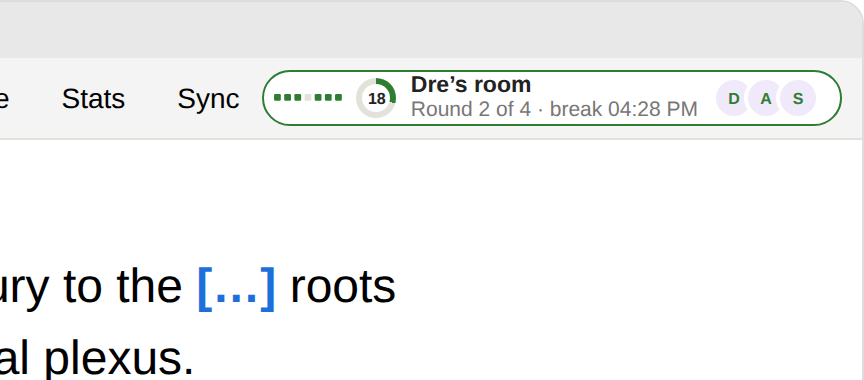
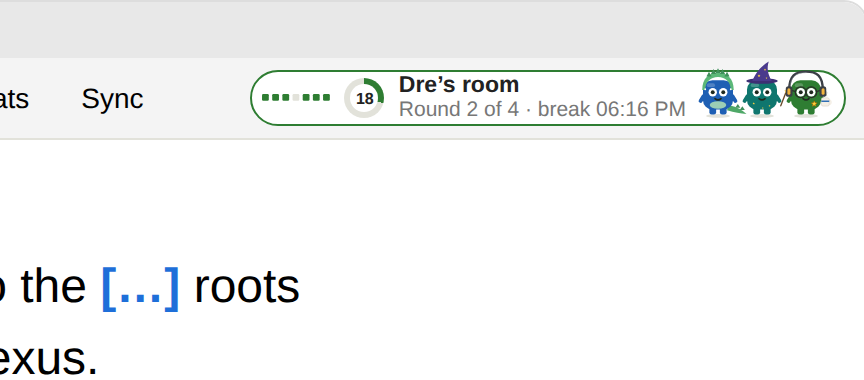
Pips in the study room's chip, margin card and break
Sam, on the top bar's room chip: "no pips here either!". Every room
widget that drew initials now draws each person's Pip, in their colour
and look, as the room's card and the Decks lobby already did. One helper
(people in the widget runtime) draws them at the size of the face each
replaces: the chip shows four, then +N, so it never crowds the bar; the
margin card and the break show everyone, wrapping, with room above for
a hat. The gap between Pips grows with their size so a held mug clears
the next one. Pip off, the initials as before.

A node test runs the real widgets on a small fake page (chip, margin
card, break, card; Pip on and off; a fifteen). README's room picture
is re-rendered from the widget.

Claude-Session: https://claude.ai/code/session_01T9RYS9itCJ3KTL7nGa5aCe

diff --git a/tests/test_due_crew.py b/tests/test_due_crew.py
@@ -12393,7 +12393,8 @@ def test_crew_room_sevs_wear_their_accents_v381():
           and sev.BLINK == 4.6 and len({sev.started(i) for i in range(6)}) == 6)
     js = rm.widget_js("card", on)
     check("…drawn from sev.py's markup (24 px seats, the faces' size), coloured by day or night, the name only a label set as text",
-          "seats(40) : faces(c, 24)" in js and "n ? s.a[1] : s.a[0]" in js and "w.title = s.n;" in js
+          "who.appendChild(people(c, 24));" in js and "Math.round(size / (D.slot || [0.6])[0]), f = seats(s, most)" in js
+          and "n ? s.a[1] : s.a[0]" in js and "w.title = s.n;" in js
           and "v.setAttribute('aria-label', s.n)" in js and round(40 * sev.SLOT[0]) == 24)
     off = rm.widget_data(room, ents, mine, sev=False)
     fif = rm.widget_data(rm.make_fifteen("sam", datetime.datetime.now(utc)), ents, mine)
@@ -13177,6 +13178,89 @@ def test_squad_pips_v3821():
           and 'squadPip(r, pips) || (r.emoji ? r.emoji + " " : ""), r.name)' in app_js
           and "pip: (x) => squadPip(x, pips)" in app_js and "new Map(people.map((p) => [p.uid, p]))" in app_js
           and "pipOf(f) || face(f.emoji, f.name)" in builder_js and "[pipOf(x) || (x.emoji" in builder_js)
+
+
+def test_room_widget_pips_v3821():
+    """3.8.21 (Sam: "no pips here either!"): a crew room's people are their
+    Pips in every widget that showed their initials: the top bar's chip (four,
+    then +N), the margin card and the break (a crowd wraps, hats clear the line
+    above), as on the room's card. Pip off: the initials, as before. The
+    widgets run in node on a small fake page; skipped without node."""
+    import shutil
+    import subprocess
+    from due_crew import room_model as rm, sev
+    utc = datetime.timezone.utc
+    now = datetime.datetime.now(utc)
+    js_of = lambda kind: rm.widget_js(kind, rm.widget_data(rm.make_room("sam", now), [], ("#2e7d32", "#7cc47f")))
+    check("every crew room widget draws its people one way (Pips, or the initials with Pip off), at the faces' size",
+          "fc = people(c, 18, 4);" in js_of("chip") and "root.appendChild(people(c, 26, 0, true));" in js_of("gutter")
+          and "box.appendChild(people(c, 32, 0, true));" in js_of("break") and "who.appendChild(people(c, 24));" in js_of("card")
+          and "faces(c, " not in rm._RUNTIME.replace("return faces(c, size);", "").replace("function faces(c, size)", ""))
+    node = shutil.which("node")
+    if not node:
+        print("SKIP room widget Pips: no node")
+        return
+    names = [("sam", "Sammy", True), ("lu", "Lu <b>", False), ("dre", "Dre", False),
+             ("ana", "Ana", False), ("kai", "Kai", False), ("nia", "Nia", False)]
+
+    def ents(room, n):
+        return [{"user_id": u, "name": nm, "you": y, "accent": "blue", "look": ["cap"] if u == "lu" else [], "room": room}
+                for u, nm, y in names[:n]]
+    before = rm.make_room("sam", now + datetime.timedelta(minutes=20))
+    fif = rm.make_fifteen("sam", now - datetime.timedelta(minutes=3))
+    cases = [(kind, n, pip, before) for kind in ("chip", "gutter", "break", "card") for n, pip in ((2, True), (6, True), (2, False))]
+    cases.append(("chip", 1, True, fif))
+    progs = [rm.widget_js(kind, rm.widget_data(room, ents(room, n), board.accent_pair("green"), sev=pip))
+             for kind, n, pip, room in cases]
+    dom = r"""
+class Sty { constructor() { this.cssText = ''; } setProperty(k, v) { this[k] = v; } }
+class E {
+  constructor(tag) { this.tag = tag; this.kids = []; this.style = new Sty(); this.textContent = ''; this.title = ''; }
+  appendChild(k) { this.kids.push(k); k.parentNode = this; return k; }
+  set innerHTML(h) { this.html = h; this.kids = []; const m = /^<([a-z]+)/.exec(h); if (m) { this.kids.push(new E(m[1])); } }
+  get firstChild() { return this.kids[0] || null; }
+  setAttribute(k, v) { this[k] = v; } querySelectorAll() { return []; } addEventListener() {} remove() {}
+}
+const body = new E('body'); body.className = '';
+globalThis.window = globalThis; window.addEventListener = () => {};
+globalThis.document = { body, head: new E('head'), createElement: (t) => new E(t), getElementById: () => null,
+  querySelector: () => null, documentElement: { classList: { contains: () => false } } };
+globalThis.setInterval = () => 0; globalThis.pycmd = () => {};
+const walk = (e, out) => { out.push(e); e.kids.forEach((k) => walk(k, out)); return out; };
+"""
+    out = []
+    for prog in progs:
+        run = subprocess.run([node, "-e", dom + prog + r"""
+const all = walk(body, []);
+const pips = all.filter((e) => e.style['--sv-d'] !== undefined);
+console.log(JSON.stringify({
+  pips: pips.map((e) => e.title), slot: pips.length ? /width:(\d+)px/.exec(pips[0].style.cssText)[1] : null,
+  initials: all.filter((e) => e.tag === 'i' && /border-radius:50%/.test(e.style.cssText)).map((e) => e.textContent),
+  more: all.filter((e) => e.tag === 'small' && /^\+/.test(e.textContent)).map((e) => e.textContent),
+  row: pips.length ? pips[0].parentNode.style.cssText : '' }));"""], capture_output=True, text=True, timeout=60)
+        try:
+            out.append(json.loads(run.stdout))
+        except ValueError:
+            out.append({"error": run.stdout[-300:] + run.stderr[-1500:]})
+    got = {(kind, n, pip, room is fif): o for (kind, n, pip, room), o in zip(cases, out)}
+    check("the widgets run in node", all("error" not in o for o in out), [o for o in out if "error" in o])
+    six = ["You", "Ana", "Dre", "Kai", "Lu <b>", "Nia"]
+    check("chip, Pip on: each person is their Pip, host first, a name only a label; four, then +2",
+          got[("chip", 2, True, False)]["pips"] == ["You", "Lu <b>"] and got[("chip", 2, True, False)]["more"] == []
+          and got[("chip", 6, True, False)]["pips"] == six[:4] and got[("chip", 6, True, False)]["more"] == ["+2"]
+          and got[("chip", 2, True, False)]["initials"] == [], got)
+    check("…each Pip's slot is the face it replaces (chip 18, margin card 26, break 32, room card 24)",
+          [got[(k, 2, True, False)]["slot"] for k in ("chip", "gutter", "break", "card")] == ["18", "26", "32", "24"]
+          and all(round(round(f / sev.SLOT[0]) * sev.SLOT[0]) == f for f in (18, 26, 32, 24)), got)
+    check("margin card and break: everyone (no +N), wrapping, with room above for a hat",
+          all(got[(k, 6, True, False)]["pips"] == six and got[(k, 6, True, False)]["more"] == []
+              and "flex-wrap:wrap" in got[(k, 6, True, False)]["row"] and "padding-top:" in got[(k, 6, True, False)]["row"]
+              for k in ("gutter", "break")), got)
+    check("Pip off: the initials, as before, in every widget",
+          all(got[(k, 2, False, False)]["pips"] == [] and got[(k, 2, False, False)]["initials"] == ["S", "L"]
+              for k in ("chip", "gutter", "break", "card")), got)
+    check("a fifteen's chip: its own Pip, no people", got[("chip", 1, True, True)]["pips"] == []
+          and got[("chip", 1, True, True)]["initials"] == [], got)
 
 
 def test_closet_flow_v382():

diff --git a/due_crew/room_model.py b/due_crew/room_model.py
@@ -602,9 +602,11 @@ _RUNTIME = r"""
   // 3.8.1: a crew room's members as their Pips (room_model.seats): each in its
   // person's accent (by day or night, as mine), each blinking at its own moment;
   // a name is only ever a label, set as text
-  function seats(size) {
-    var f = el('span', 'display:inline-flex;align-items:center;gap:3px;'), n = night();
-    D.seats.forEach(function (s) {
+  // most: that many, then +N (3.8.21, the top bar's chip)
+  function seats(size, most) {
+    var f = el('span', 'display:inline-flex;align-items:center;gap:' + Math.max(3, Math.round(size / 8)) + 'px;'), n = night();
+    D.seats.forEach(function (s, i) {
+      if (most && i >= most) { return; }
       var w = sev(s.k && D.sev[s.k] ? s.k : s.m && s.m !== 'idle' && D.sev['idle.' + s.m] ? 'idle.' + s.m : 'idle', size), v = w.firstChild;
       w.style.setProperty('--sv-a', n ? s.a[1] : s.a[0]);
       w.style.setProperty('--sv-d', s.d + 's');
@@ -612,6 +614,20 @@ _RUNTIME = r"""
       if (v && v.setAttribute) { v.setAttribute('aria-label', s.n); }
       f.appendChild(w);
     });
+    if (most && D.seats.length > most) { f.appendChild(el('small', 'color:' + c.mut + ';font-size:11px;', '+' + (D.seats.length - most))); }
+    return f;
+  }
+  // 3.8.21 (Sam: "no pips here either!"): with Pip on, a crew room's people are their Pips
+  // wherever its faces were (the chip, the gutter, the break, the card); Pip off, the initials.
+  // A face of size px is a seat of size / sev.SLOT[0]: the slot its Pip fills is the face's size
+  // In a column (stack), their hats clear the line above and a crowd wraps
+  function people(c, size, most, stack) {
+    if (!(D.sev && D.seats && D.seats.length)) { return faces(c, size); }
+    var s = Math.round(size / (D.slot || [0.6])[0]), f = seats(s, most);
+    if (stack) {
+      f.style.cssText += 'flex-wrap:wrap;justify-content:center;max-width:100%;padding-top:' + Math.round(s * .3) +
+        'px;row-gap:' + Math.round(s * .35) + 'px;';
+    }
     return f;
   }
   function ftitle(p) { var n = p.state === 'break' ? p.round + 1 : p.round; return p.state === 'break' ? 'Break' : 'Fifteen' + (n > 1 ? ' ' + n : ''); }
@@ -645,7 +661,7 @@ _RUNTIME = r"""
       ';font:12px -apple-system,Segoe UI,sans-serif;cursor:pointer;z-index:99;white-space:nowrap;');
     root.title = FIF ? 'Your fifteen' : 'Your study room';
     var sq = FIF && D.sev ? sev('focus', 32) : squares(c, 34), rg = ring(20, c), tx = el('span', 'display:grid;line-height:1.1;'),
-        t1 = el('b', 'font-size:11.5px;', D.title), t2 = el('small', 'font-size:10.5px;color:' + c.mut + ';'), fc = faces(c, 18);
+        t1 = el('b', 'font-size:11.5px;', D.title), t2 = el('small', 'font-size:10.5px;color:' + c.mut + ';'), fc = people(c, 18, 4);
     tx.appendChild(t1); tx.appendChild(t2);
     if (sq.set) { sq.style.marginRight = '5px'; }  // 3.8.2: what Pip set down to hold its card, clear of the clock
     root.appendChild(sq); root.appendChild(rg); root.appendChild(tx); root.appendChild(fc);
@@ -681,7 +697,7 @@ _RUNTIME = r"""
     var rg3 = ring(40, c), g1 = el('b', 'font-size:12.5px;'), g2 = el('small', 'color:' + c.mut + ';font-size:11px;'),
         g3 = el('small', 'color:' + c.mut + ';font-size:11px;line-height:1.3;', D.line);
     var sv3 = FIF && D.sev ? sev('focus', 72) : null;
-    root.appendChild(sv3 || squares(c, 56)); root.appendChild(rg3); root.appendChild(g1); root.appendChild(g2); root.appendChild(faces(c, 26)); root.appendChild(g3);
+    root.appendChild(sv3 || squares(c, 56)); root.appendChild(rg3); root.appendChild(g1); root.appendChild(g2); root.appendChild(people(c, 26, 0, true)); root.appendChild(g3);
     root.onclick = function () { send('roomcard'); };
     update = function (p) {
       rg3.set(p.state === 'before' ? 0 : p.state === 'ask' ? 1 : 1 - p.left / p.total,
@@ -741,7 +757,7 @@ _RUNTIME = r"""
       cheer.onclick = function () { send('roomcheer'); cheer.textContent = 'Cheered ✓'; cheer.disabled = true; };
       btn('Skip the break', false, 'roomskip');
     }
-    box.appendChild(logo); box.appendChild(rg4); box.appendChild(h); box.appendChild(p1); box.appendChild(faces(c, 32)); box.appendChild(btns);
+    box.appendChild(logo); box.appendChild(rg4); box.appendChild(h); box.appendChild(p1); box.appendChild(people(c, 32, 0, true)); box.appendChild(btns);
     box.appendChild(el('small', 'color:' + c.mut + ';font-size:12px;', FIF ? (D.brk_pose === 'stretch' ?
       'Stand up, stretch, some water. Look at something far away.' : 'Breathe with Pip: in for four, hold, out for four, hold.') :
       'The break waited for you to finish your card.'));
@@ -862,8 +878,7 @@ _RUNTIME = r"""
       if (i < D.rounds && D.brk) { bar.appendChild(el('i', 'flex:' + D.brk + ';height:4px;border-radius:2px;background:' + c.warm + ';opacity:.45;display:block;')); }
     }
     var who = el('div', 'display:flex;align-items:center;gap:8px;color:' + c.mut + ';font-size:12px;');
-    // Pip off: each person's initial, as before (sev.SLOT: a 40 px Pip is a 24 px seat, the faces' size)
-    who.appendChild(D.sev && D.seats && D.seats.length ? seats(40) : faces(c, 24)); who.appendChild(el('span', '', D.line));
+    who.appendChild(people(c, 24)); who.appendChild(el('span', '', D.line));
     var ft = el('div', 'display:flex;justify-content:space-between;font-size:12.5px;font-weight:600;color:' + c.a + ';border-top:1px solid ' + c.line + ';padding-top:8px;');
     var tuck = el('span', 'cursor:pointer;', D.compact ? 'Show the whole chip' : 'Tuck it away'),
         leave = el('span', 'cursor:pointer;', FIF ? 'Stop here' : 'Leave room');

diff --git a/docs/history.md b/docs/history.md
@@ -1752,4 +1752,13 @@ every release that changes how something works.
   squadmate who isn't a mutual friend shares a name and an emoji, nothing
   more, and that's all they get here too. Nothing new is asked of the
   server. Pip off, the emojis as before. The site the same (`squadPip` in
-  app.js's `Board`, `on.pip` into builder.js's `PlanSquad.view`).
+  app.js's `Board`, `on.pip` into builder.js's `PlanSquad.view`). And in a
+  study room (Sam, on the top bar's chip: "no pips here either!"): every
+  room widget that showed initials shows each person's Pip, in their colour
+  and look, as the room's card and the Decks lobby already did: the top
+  bar's chip (four, then +N, so it never crowds the bar), the margin card
+  beside the card and the break (everyone, wrapping, with room above for a
+  hat). One helper draws them (`people` in `room_model`'s widget runtime),
+  each Pip's slot the size of the face it replaces; the gap between them
+  grows with their size, so a held mug clears the next one. Pip off, the
+  initials as before. README's room picture re-rendered from the widget.

diff --git a/docs/manual-anki-checklist.md b/docs/manual-anki-checklist.md
@@ -669,6 +669,7 @@ In Anki (as a follower):
 
 - [ ] Squads › a squad: each person's Pip where the emoji was; yours in your look (it opens the closet), a crewmate's in their colour and look, everyone else a plain green Pip. Settings › Pip off: the emojis come back.
 - [ ] Squads › a plan's squad: the faces under Showed up today are Pips, and so is whoever asked a question. duecrew.com's Squads the same.
+- [ ] A crew study room: the top bar's chip shows each person's Pip where the initials were (yours in your look, a crewmate's in theirs); with five or more, four and +N. On the review screen, the margin card beside a narrow card and the room's break show everyone's Pips, no hat touching the line above. Settings › Pip off: the initials come back. A Fifteen's chip is as before.
 
 ### 3.8.2: Pip's closet
 

diff --git a/README.md b/README.md
@@ -24,7 +24,7 @@ screen, with your note.
 bar, breaks together. Each of you sits in the room as your own Pip, in
 your own colour.
 
-<img alt="A study room in Anki's top bar" src="https://raw.githubusercontent.com/sammyc2472/due-crew/main/docs/images/room.png" width="420">
+<img alt="A study room in Anki's top bar" src="https://raw.githubusercontent.com/sammyc2472/due-crew/main/docs/images/room.png?v=2" width="420">
 
 - **Stuck on a card?** Ask your crew. Anyone who has it down can send a
   tip, which shows next time the card comes up.
